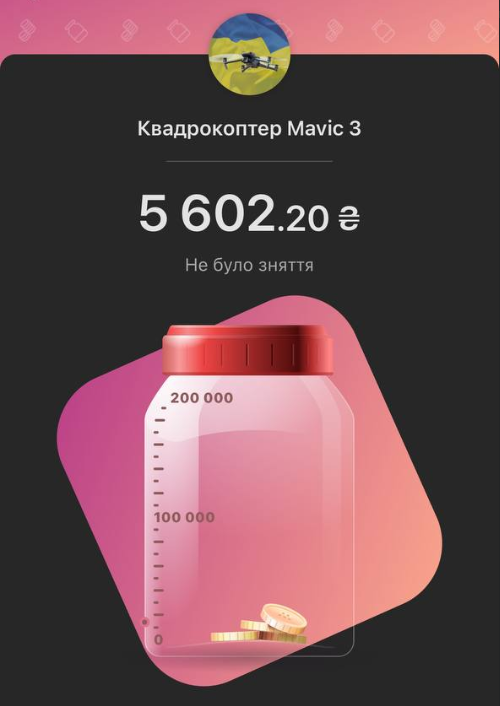
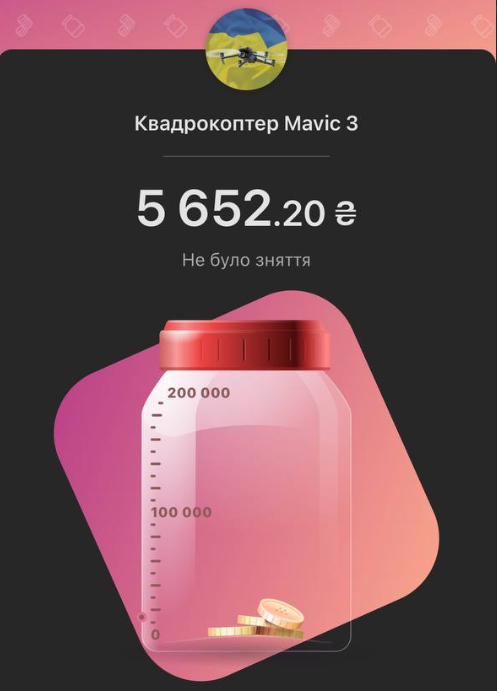
Change project

diff --git a/index.html b/index.html
@@ -76,7 +76,7 @@
         <a class="item" href="/?result=true" target="_blank">
           <div class="text-menu text-result">
             <span
-              >Всього зібрано: 12 946.20₴ (Результат оновлюється 21:00)</span
+              >Всього зібрано: 12 996.20₴ (Результат оновлюється 21:00)</span
             >
           </div>
         </a>
@@ -92,7 +92,7 @@
     ></video>
 
     <div class="cards-result" id="cards-result">
-      <h1>Всього зібрано: 12 946.20₴</h1>
+      <h1>Всього зібрано: 12 996.20₴</h1>
       <div class="card">
         <img src="./image/result/MONO.PNG" alt="Image not found" />
         <img src="./image/result/PRIVAT.PNG" alt="Image not found" />
